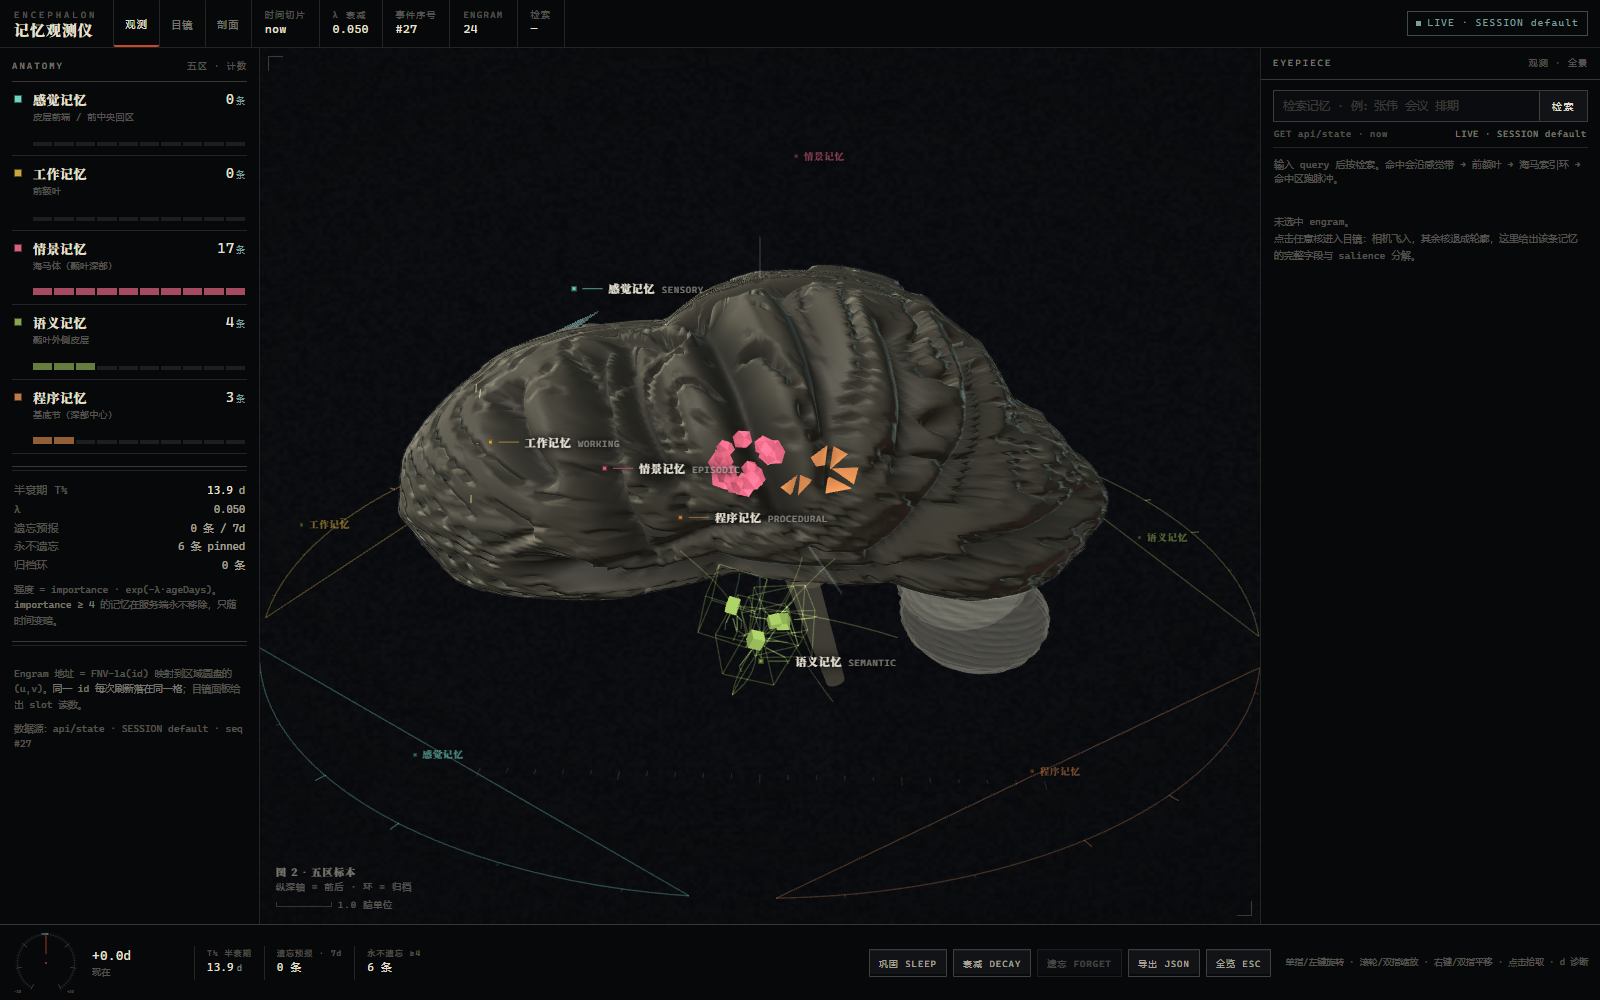
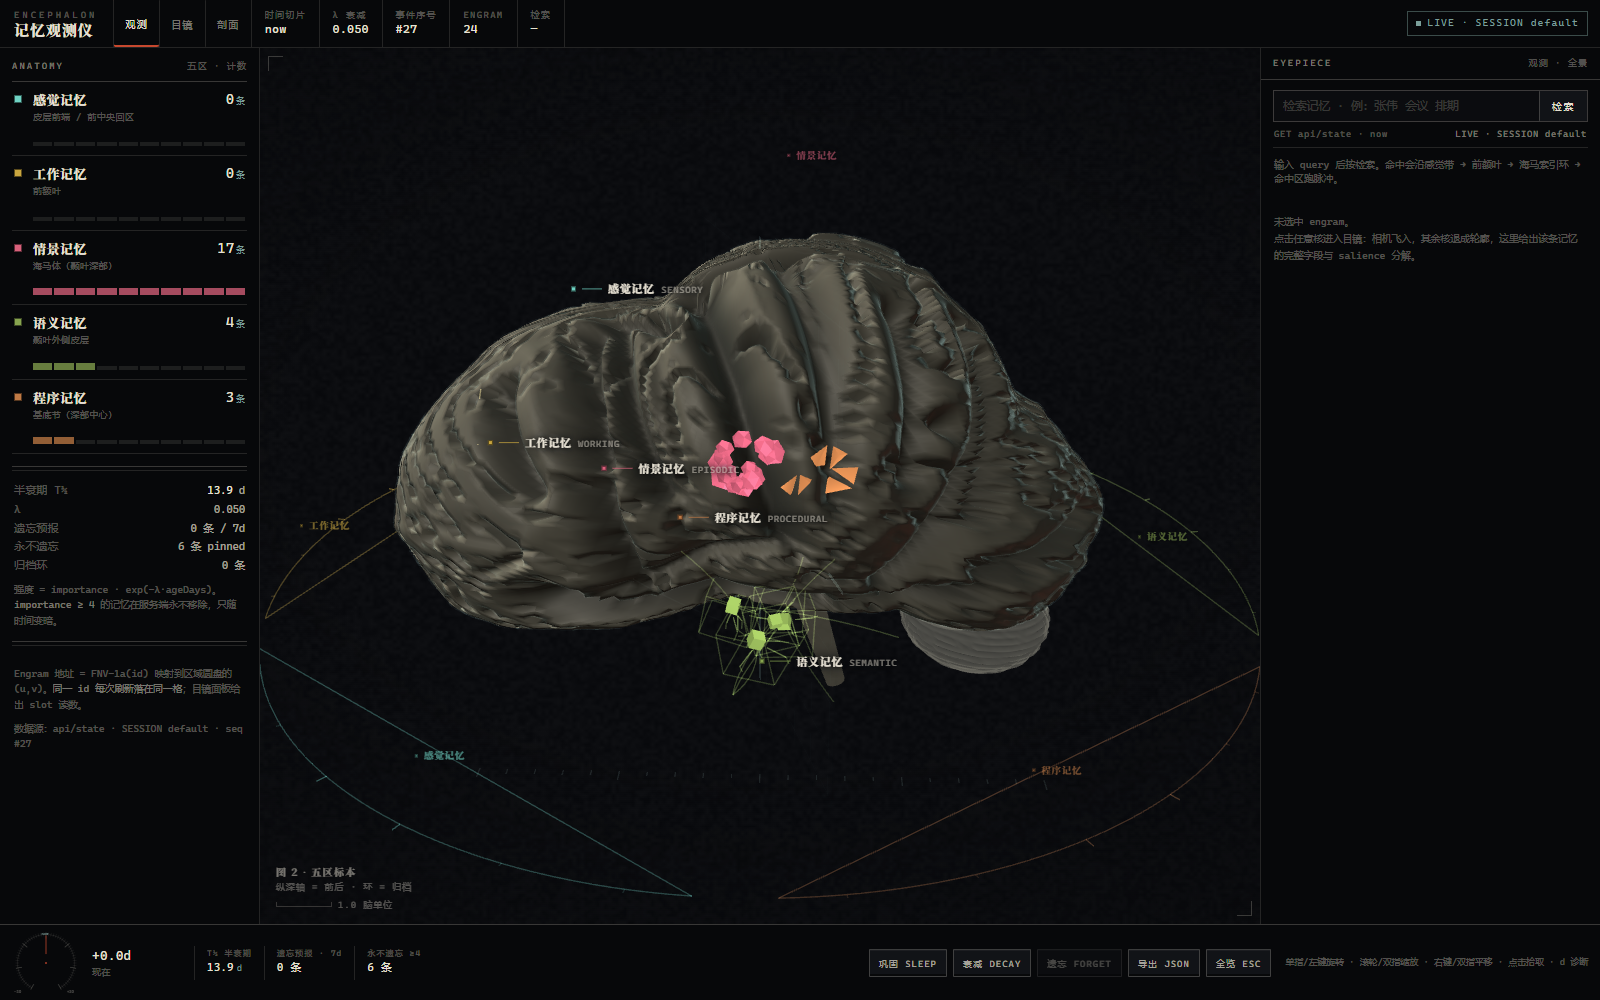
feat(3d): 三轴分别归一化（极部收窄不再被抹平）+ 竖屏取景与扇区标签窄屏收敛

diff --git a/dist/deepseek-brain-3d.html b/dist/deepseek-brain-3d.html
@@ -934,7 +934,7 @@ globalThis.THREE=Object.freeze({ACESFilmicToneMapping:nt,AddEquation:M,AddOperat
     /* 三个极部：更小的半径 + 更靠前/后，靠并集的圆角把主体收成锥形 */
     [0.00, -0.02, 0.88, 0.46, 0.42, 0.30, 0],  /* 额极：窄、略低，压出眉弓下的收口 */
     [-0.56, -0.34, 0.66, 0.33, 0.27, 0.28, 1], /* 颞极：向前下方探出的钩 */
-    [0.00, -0.02, -1.00, 0.36, 0.30, 0.24, 0]  /* 枕极：收成一小段锥 */
+    [0.00, -0.02, -0.94, 0.40, 0.34, 0.28, 0]  /* 枕极：收成一小段锥 */
   ];
 
   function lobeField(x, y, z, side) {
@@ -963,19 +963,14 @@ globalThis.THREE=Object.freeze({ACESFilmicToneMapping:nt,AddEquation:M,AddOperat
     return (lo + hi) * 0.5;
   }
 
-  /* 把叶并集的最大半径归一化到 1，BRAIN.AX/AY/AZ 才是真正的尺寸 */
+  /* 三轴分别归一：并集在 ±X、+Y、±Z 上的实际伸展各自映到 1。
+     之前用「所有方向里的最大半径」统一去除，等于把极部的收窄又按比例缩放回去；
+     分轴之后，额极/枕极的细瘦是形状本身的性质，不会被归一化抹平。       */
   var LOBE_K = (function () {
-    var m = 0.001;
-    for (var i = 0; i < 32; i++) {
-      var a = (i / 32) * Math.PI * 2;
-      for (var j = 1; j < 8; j++) {
-        var el = -1 + (2 * j) / 8;
-        var rr = Math.sqrt(Math.max(0, 1 - el * el));
-        var d = lobeRadius(Math.cos(a) * rr, el, Math.sin(a) * rr, 1);
-        if (d > m) m = d;
-      }
-    }
-    return 1 / m;
+    var kx = 1 / Math.max(lobeRadius(1, 0, 0, 1), lobeRadius(-1, 0, 0, 1), 0.001);
+    var ky = 1 / Math.max(lobeRadius(0, 1, 0, 1), lobeRadius(0, -1, 0, 1), 0.001);
+    var kz = 1 / Math.max(lobeRadius(0, 0, 1, 1), lobeRadius(0, 0, -1, 1), 0.001);
+    return { x: kx, y: ky, z: kz };
   })();
 
   /* ── 一级沟骨架 ───────────────────────────────────────────────────────
@@ -1099,15 +1094,15 @@ globalThis.THREE=Object.freeze({ACESFilmicToneMapping:nt,AddEquation:M,AddOperat
     var sul = det.sul, bump = det.bump;
     var disp = 1 + 0.094 * bump - 0.118 * sul;
     /* 叶形半径：同一条射线上的边界由四叶并集给出，不再是单位球 */
-    var lobe = lobeRadius(px, py, pz, side) * LOBE_K;
+    var r0 = lobeRadius(px, py, pz, side);
     var mx = softMax(px, 0.018, 0.085);
     /* the base of the brain is flat (inferior surface), not a sphere cap */
     var pyFlat = py < -0.30 ? -0.30 + (py + 0.30) * 0.58 : py;
-    var x = side * mx * lobe * disp * BRAIN.AX * 0.92;
-    var y = pyFlat * lobe * disp * BRAIN.AY * 0.88 + 0.05 * smoothstep(0.4, 1.0, -pz);
-    var z = pz * lobe * disp * BRAIN.AZ;
+    var x = side * mx * r0 * LOBE_K.x * disp * BRAIN.AX * 0.92;
+    var y = pyFlat * r0 * LOBE_K.y * disp * BRAIN.AY * 0.88 + 0.05 * smoothstep(0.4, 1.0, -pz);
+    var z = pz * r0 * LOBE_K.z * disp * BRAIN.AZ;
     /* 颅顶弧线：中段最高，额极与枕极都往下沉，避免两头是等高的圆球面 */
-    y -= 0.125 * smoothstep(0.18, 0.98, Math.abs(pz)) * lobe * BRAIN.AY * 0.88;
+    y -= 0.125 * smoothstep(0.18, 0.98, Math.abs(pz)) * r0 * BRAIN.AY * 0.88;
     /* 极部再收一点宽度，从上方看是卵形而不是跑道形 */
     x *= 1 - 0.13 * smoothstep(0.34, 1.0, Math.abs(pz));
     return { x: x, y: y, z: z, sul: sul, bump: bump, shade: clamp(0.20 + 0.95 * bump * (1 - 0.85 * sul) + 0.10 * warpB, 0, 1) };
@@ -2281,6 +2276,7 @@ globalThis.THREE=Object.freeze({ACESFilmicToneMapping:nt,AddEquation:M,AddOperat
       el.style.transform = 'translate(' + x.toFixed(1) + 'px,' + y.toFixed(1) + 'px)';
     });
     ARC_LABELS.forEach(function (item) {
+      if (w < 720) { item.el.style.opacity = '0'; return; }
       var mid = arcStart(item.layer) + (ARC_SPAN - 0.12) * 0.5;
       var p3 = archivePoint(mid).multiplyScalar(1 + 0.26 / TUNING.ARCHIVE_R);
       _proj.copy(p3).project(camera);
@@ -3555,7 +3551,7 @@ globalThis.THREE=Object.freeze({ACESFilmicToneMapping:nt,AddEquation:M,AddOperat
     traceBuf.mat.uniforms.uRes.value.set(w * renderer.getPixelRatio(), h * renderer.getPixelRatio());
     traceBuf.mat.uniforms.uPixelRatio.value = 1;
     /* 竖屏时横向视野更窄：把标本按比例拉远，避免被裁掉两颞侧 */
-    var fit = camera.aspect < 1 ? clamp(1.02 / camera.aspect, 1, 1.75) : 1;
+    var fit = camera.aspect < 1 ? clamp(1.02 / camera.aspect, 1, 1.56) : 1;
     if (Math.abs(fit - num(APP.fit, 1)) > 0.001) {
       APP.fit = fit;
       if (!APP.selected && !fly && Math.abs(APP.atDays) < 0.02) {

diff --git a/web/brain-3d.html b/web/brain-3d.html
@@ -922,7 +922,7 @@
     /* 三个极部：更小的半径 + 更靠前/后，靠并集的圆角把主体收成锥形 */
     [0.00, -0.02, 0.88, 0.46, 0.42, 0.30, 0],  /* 额极：窄、略低，压出眉弓下的收口 */
     [-0.56, -0.34, 0.66, 0.33, 0.27, 0.28, 1], /* 颞极：向前下方探出的钩 */
-    [0.00, -0.02, -1.00, 0.36, 0.30, 0.24, 0]  /* 枕极：收成一小段锥 */
+    [0.00, -0.02, -0.94, 0.40, 0.34, 0.28, 0]  /* 枕极：收成一小段锥 */
   ];
 
   function lobeField(x, y, z, side) {
@@ -951,19 +951,14 @@
     return (lo + hi) * 0.5;
   }
 
-  /* 把叶并集的最大半径归一化到 1，BRAIN.AX/AY/AZ 才是真正的尺寸 */
+  /* 三轴分别归一：并集在 ±X、+Y、±Z 上的实际伸展各自映到 1。
+     之前用「所有方向里的最大半径」统一去除，等于把极部的收窄又按比例缩放回去；
+     分轴之后，额极/枕极的细瘦是形状本身的性质，不会被归一化抹平。       */
   var LOBE_K = (function () {
-    var m = 0.001;
-    for (var i = 0; i < 32; i++) {
-      var a = (i / 32) * Math.PI * 2;
-      for (var j = 1; j < 8; j++) {
-        var el = -1 + (2 * j) / 8;
-        var rr = Math.sqrt(Math.max(0, 1 - el * el));
-        var d = lobeRadius(Math.cos(a) * rr, el, Math.sin(a) * rr, 1);
-        if (d > m) m = d;
-      }
-    }
-    return 1 / m;
+    var kx = 1 / Math.max(lobeRadius(1, 0, 0, 1), lobeRadius(-1, 0, 0, 1), 0.001);
+    var ky = 1 / Math.max(lobeRadius(0, 1, 0, 1), lobeRadius(0, -1, 0, 1), 0.001);
+    var kz = 1 / Math.max(lobeRadius(0, 0, 1, 1), lobeRadius(0, 0, -1, 1), 0.001);
+    return { x: kx, y: ky, z: kz };
   })();
 
   /* ── 一级沟骨架 ───────────────────────────────────────────────────────
@@ -1087,15 +1082,15 @@
     var sul = det.sul, bump = det.bump;
     var disp = 1 + 0.094 * bump - 0.118 * sul;
     /* 叶形半径：同一条射线上的边界由四叶并集给出，不再是单位球 */
-    var lobe = lobeRadius(px, py, pz, side) * LOBE_K;
+    var r0 = lobeRadius(px, py, pz, side);
     var mx = softMax(px, 0.018, 0.085);
     /* the base of the brain is flat (inferior surface), not a sphere cap */
     var pyFlat = py < -0.30 ? -0.30 + (py + 0.30) * 0.58 : py;
-    var x = side * mx * lobe * disp * BRAIN.AX * 0.92;
-    var y = pyFlat * lobe * disp * BRAIN.AY * 0.88 + 0.05 * smoothstep(0.4, 1.0, -pz);
-    var z = pz * lobe * disp * BRAIN.AZ;
+    var x = side * mx * r0 * LOBE_K.x * disp * BRAIN.AX * 0.92;
+    var y = pyFlat * r0 * LOBE_K.y * disp * BRAIN.AY * 0.88 + 0.05 * smoothstep(0.4, 1.0, -pz);
+    var z = pz * r0 * LOBE_K.z * disp * BRAIN.AZ;
     /* 颅顶弧线：中段最高，额极与枕极都往下沉，避免两头是等高的圆球面 */
-    y -= 0.125 * smoothstep(0.18, 0.98, Math.abs(pz)) * lobe * BRAIN.AY * 0.88;
+    y -= 0.125 * smoothstep(0.18, 0.98, Math.abs(pz)) * r0 * BRAIN.AY * 0.88;
     /* 极部再收一点宽度，从上方看是卵形而不是跑道形 */
     x *= 1 - 0.13 * smoothstep(0.34, 1.0, Math.abs(pz));
     return { x: x, y: y, z: z, sul: sul, bump: bump, shade: clamp(0.20 + 0.95 * bump * (1 - 0.85 * sul) + 0.10 * warpB, 0, 1) };
@@ -2269,6 +2264,7 @@
       el.style.transform = 'translate(' + x.toFixed(1) + 'px,' + y.toFixed(1) + 'px)';
     });
     ARC_LABELS.forEach(function (item) {
+      if (w < 720) { item.el.style.opacity = '0'; return; }
       var mid = arcStart(item.layer) + (ARC_SPAN - 0.12) * 0.5;
       var p3 = archivePoint(mid).multiplyScalar(1 + 0.26 / TUNING.ARCHIVE_R);
       _proj.copy(p3).project(camera);
@@ -3543,7 +3539,7 @@
     traceBuf.mat.uniforms.uRes.value.set(w * renderer.getPixelRatio(), h * renderer.getPixelRatio());
     traceBuf.mat.uniforms.uPixelRatio.value = 1;
     /* 竖屏时横向视野更窄：把标本按比例拉远，避免被裁掉两颞侧 */
-    var fit = camera.aspect < 1 ? clamp(1.02 / camera.aspect, 1, 1.75) : 1;
+    var fit = camera.aspect < 1 ? clamp(1.02 / camera.aspect, 1, 1.56) : 1;
     if (Math.abs(fit - num(APP.fit, 1)) > 0.001) {
       APP.fit = fit;
       if (!APP.selected && !fly && Math.abs(APP.atDays) < 0.02) {

diff --git a/README.md b/README.md
@@ -363,7 +363,7 @@ node tools/build-3d.mjs      # 生成 dist/deepseek-brain-3d.html
 
 **几何与脑区映射**（`BRAIN = {AX 1.40, AY 1.46, AZ 2.02}`）
 
-- 皮层不是一颗椭球，而是 **四叶 + 三个极部** 的隐式场并集：`LOBE_C` 里额 `[0,0.06,0.50, 0.86,0.84,0.80]`、顶 `[0,0.26,-0.20, 0.92,0.92,0.72]`、枕 `[0,-0.06,-0.68, 0.78,0.64,0.50]`、颞 `[-0.66,-0.30,0.10, 0.50,0.40,0.72]`（按半球镜像）给主体，另加额极 `[0,-0.02,0.88, 0.46,0.42,0.30]`、颞极 `[-0.56,-0.34,0.66, 0.33,0.27,0.28]`、枕极 `[0,-0.02,-1.00, 0.36,0.30,0.24]` 三个更小更靠外的椭球；polynomial smooth-max（`k = 0.115`）做圆角并集，再沿每个顶点方向二分 16 次求边界半径 `lobeRadius()`，`LOBE_K` 把并集最大半径归一到 1。极部因此是锥形收口，不是两块等高的球面。
+- 皮层不是一颗椭球，而是 **四叶 + 三个极部** 的隐式场并集：`LOBE_C` 里额 `[0,0.06,0.50, 0.86,0.84,0.80]`、顶 `[0,0.26,-0.20, 0.92,0.92,0.72]`、枕 `[0,-0.06,-0.68, 0.78,0.64,0.50]`、颞 `[-0.66,-0.30,0.10, 0.50,0.40,0.72]`（按半球镜像）给主体，另加额极 `[0,-0.02,0.88, 0.46,0.42,0.30]`、颞极 `[-0.56,-0.34,0.66, 0.33,0.27,0.28]`、枕极 `[0,-0.02,-1.00, 0.36,0.30,0.24]` 三个更小更靠外的椭球；polynomial smooth-max（`k = 0.115`）做圆角并集，再沿每个顶点方向二分 16 次求边界半径 `lobeRadius()`，归一化按**三轴分别**做（`LOBE_K = {x,y,z}`，各自取该轴正负向上 `lobeRadius` 的最大值求倒数）——之前用「所有方向的最大半径」统一去除，等于把极部的收窄又按比例缩放回去；分轴之后额极/枕极的细瘦是形状本身的性质。极部因此是锥形收口，不是两块等高的球面。
 - 两个**闭合**半球：内侧顶点被 softMax 折到 `x ≈ ±gapHalf` 的墙面上，两壁之间是真缝（纵裂）；脑底面在颅底处压平（`py < -0.30` 后的 0.58 折减）。
 - 沟回由**带分叉的一级沟骨架树**驱动：`SULCI` 里的 18 条折线（中央沟主干 + 上支 + 下支、中央前/后沟、外侧裂主干 + 升支 + 后支、额上/额下沟、顶内沟、顶上沟、顶枕外侧支、颞上/颞下沟、顶枕沟、距状沟、扣带沟）都定义在单位球方向空间；每个顶点一次遍历算出到最近骨架的角距离 `d1`、到次近骨架的 `d2` 与按 `w=exp(−(d/0.30)²)` 融合的相位——
   - 一级沟：`d1≈0` 处按各自宽度开深槽 `exp(−(d1/w)²)·depth`；
@@ -372,6 +372,7 @@ node tools/build-3d.mjs      # 生成 dist/deepseek-brain-3d.html
   - **Voronoi 顶冠**：`wall = exp(−((d2−d1)/0.055)²)` 在两条沟的分界线上把皮层抬起来，于是两沟之间是圆隆的脑回顶，而不是平台；
   - **叶区调制**：相位再乘一个由前后位置决定的 `gf = 1 − 0.15·smoothstep(0, 0.90, pz) + 0.20·smoothstep(0.10, −0.85, pz)`——额极更宽（`gf≈0.85`）、枕极更细（`gf≈1.20`），治掉原先「脑回宽度整齐划一」的塑料感。
   合成 `bump = (1−sul)·0.55 + 0.45·warpA + 0.18·wall`，`disp = 1 + 0.094·bump − 0.118·sul`。中央沟与外侧裂因此是真正的分叶深沟，不是画上去的线。
+- 竖屏按 `fit = clamp(1.02/aspect, 1, 1.56)` 把标本拉远；画布宽度小于 720 px 时不再画归档扇区标签（与左栏五区标签重名）。
 - 半球细分 `seg: [224, 168]`（低画质 `[104, 80]`），约 10 万顶点/半球；加载时一次性算完位移与顶点色，桌面端 `DOMContentLoaded ≈ 1.2 s`。
 - 颅顶弧线单列一条：`y -= 0.125 * smoothstep(0.18, 0.98, |pz|) * lobe`，中段最高、额极与枕极一起下沉；同时 `x *= 1 - 0.13*smoothstep(0.34,1.0,|pz|)` 让极部收窄，从上方看是卵形而不是跑道形。
 - 小脑是两半球 + 蚓部三个网格（共用一份叶片条纹几何），脑干与桥脑独立。
